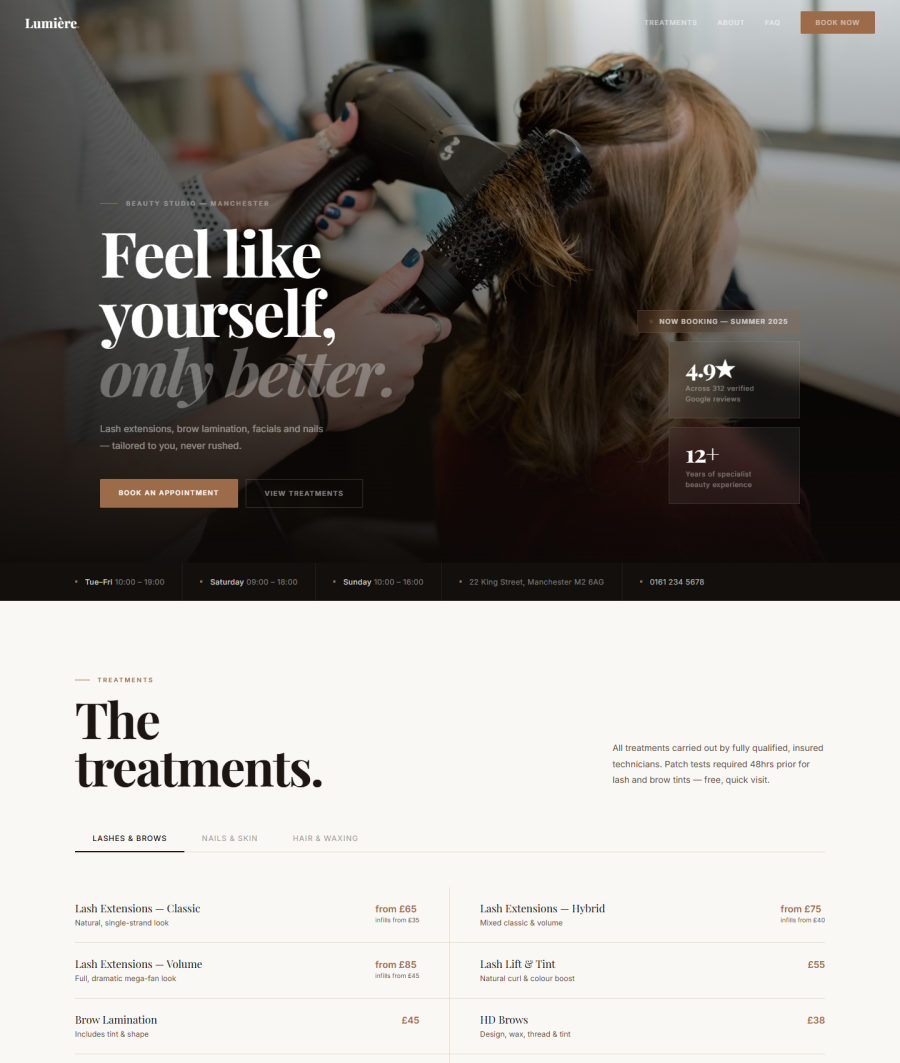
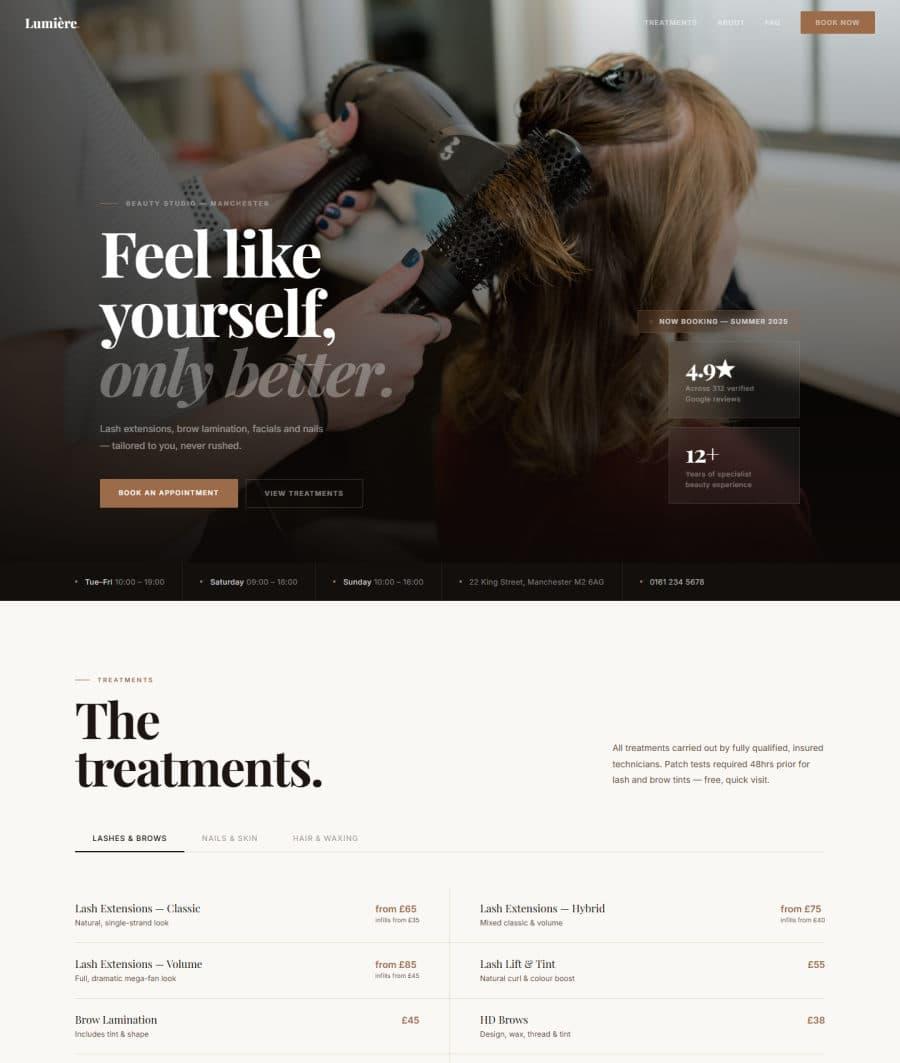
Compress images and add explicit width/height to img tags
Reduces image payload by ~427 KiB (PageSpeed Insights "Improve image
delivery" finding) and prevents layout shift by giving the browser
intrinsic dimensions before load.

diff --git a/axiom/index.html b/axiom/index.html
@@ -490,7 +490,7 @@
       <!-- Far left: logo + service pages -->
       <div style="display:flex;align-items:center;gap:28px;">
         <a href="#" style="display:inline-block; line-height:0;">
-          <img src="AXIOM LOGO ICON.png" alt="Axio" style="height:72px; width:auto; margin-top:-12px;">
+          <img src="AXIOM LOGO ICON.png" alt="Axio" width="600" height="490" style="height:72px; width:auto; margin-top:-12px;">
         </a>
         <a href="digital-marketing.html" class="nav-link">Marketing</a>
         <a href="seo.html" class="nav-link">SEO</a>
@@ -556,7 +556,7 @@
         <path class="hero-corner-path delayed" d="M120 0 L20 0 Q0 0 0 20 L0 60"/>
       </svg>
     </div>
-    <img src="AXIOM LOGO.png" alt="" class="watermark-a" style="width:520px; height:auto; opacity:1; object-fit:contain;">
+    <img src="AXIOM LOGO.png" alt="" class="watermark-a" width="1086" height="1448" style="width:520px; height:auto; opacity:1; object-fit:contain;">
     <div style="max-width:1400px; margin:0 auto; width:100%; position:relative; z-index:1;">
 
       <div style="display:flex; align-items:flex-start; gap:24px; margin-bottom:48px;">
@@ -574,7 +574,7 @@
             Based in Peterborough, Cambridgeshire — serving businesses across Cambridgeshire and the wider UK. We build your website first, fully bespoke, tailored to your brand. You see it, you approve it, and only then do you pay. No risk, no pressure, no templates.
           </p>
           <div class="hero-cta-wrap" style="display:flex; gap:12px; flex-wrap:wrap;">
-            <img src="AXIOM LOGO.png" alt="" class="hero-cta-logo" style="display:none;">
+            <img src="AXIOM LOGO.png" alt="" class="hero-cta-logo" width="1086" height="1448" style="display:none;">
             <a href="#contact" class="btn btn-white">Build Your Dream Website Today</a>
             <a href="#work" class="btn btn-outline-w">View Our Work</a>
           </div>
@@ -676,7 +676,7 @@
         <div>
           <p style="font-size:10px; font-weight:700; letter-spacing:0.22em; text-transform:uppercase; color:rgba(255,255,255,0.35); margin:0 0 16px;">Barbershop</p>
           <a href="https://ejcutz.com" target="_blank" rel="noopener" style="display:block; position:relative; overflow:hidden; border:1px solid rgba(255,255,255,0.08); text-decoration:none; min-height:600px; transition:border-color 0.3s;" onmouseover="this.style.borderColor='rgba(255,255,255,0.25)';this.querySelector('img').style.transform='scale(1.05)'" onmouseout="this.style.borderColor='rgba(255,255,255,0.08)';this.querySelector('img').style.transform='scale(1)'">
-            <img src="ejcuts-preview.png" alt="EJ Cuts" style="position:absolute; inset:0; width:100%; height:100%; object-fit:cover; object-position:center top; display:block; transition:transform 0.6s cubic-bezier(0.25,0.46,0.45,0.94);">
+            <img src="ejcuts-preview.png" alt="EJ Cuts" width="1280" height="900" style="position:absolute; inset:0; width:100%; height:100%; object-fit:cover; object-position:center top; display:block; transition:transform 0.6s cubic-bezier(0.25,0.46,0.45,0.94);">
             <div style="position:absolute; inset:0; background:linear-gradient(to top, rgba(0,0,0,0.92) 0%, rgba(0,0,0,0.4) 50%, rgba(0,0,0,0.1) 100%); pointer-events:none;"></div>
             <div style="position:relative; z-index:2; padding:40px; display:flex; flex-direction:column; justify-content:flex-end; min-height:600px;">
               <div>
@@ -699,7 +699,7 @@
           <p style="font-size:10px; font-weight:700; letter-spacing:0.22em; text-transform:uppercase; color:rgba(255,255,255,0.35); margin:0 0 16px;">Eyebrow Technician</p>
           <a href="https://maison-de-may.vercel.app/" target="_blank" rel="noopener" style="display:block; position:relative; overflow:hidden; border:1px solid rgba(255,255,255,0.08); text-decoration:none; min-height:600px; transition:border-color 0.3s;" onmouseover="this.style.borderColor='rgba(255,255,255,0.25)';this.querySelector('img').style.transform='scale(1.05)'" onmouseout="this.style.borderColor='rgba(255,255,255,0.08)';this.querySelector('img').style.transform='scale(1)'">
             <!-- Full background image -->
-            <img src="maison-preview.jpg" alt="Maison De May Beauty" style="position:absolute; inset:0; width:100%; height:100%; object-fit:cover; object-position:center top; display:block; transition:transform 0.6s cubic-bezier(0.25,0.46,0.45,0.94);">
+            <img src="maison-preview.jpg" alt="Maison De May Beauty" width="1440" height="900" style="position:absolute; inset:0; width:100%; height:100%; object-fit:cover; object-position:center top; display:block; transition:transform 0.6s cubic-bezier(0.25,0.46,0.45,0.94);">
             <!-- Dark gradient so text is readable -->
             <div style="position:absolute; inset:0; background:linear-gradient(to top, rgba(0,0,0,0.92) 0%, rgba(0,0,0,0.4) 50%, rgba(0,0,0,0.1) 100%); pointer-events:none;"></div>
             <!-- Text overlaid at bottom -->
@@ -723,7 +723,7 @@
         <div>
           <p style="font-size:10px; font-weight:700; letter-spacing:0.22em; text-transform:uppercase; color:rgba(255,255,255,0.35); margin:0 0 16px;">Car Dealership</p>
           <a href="https://www.luckymotorspeterboroughltd.co.uk/" target="_blank" rel="noopener" style="display:block; position:relative; overflow:hidden; border:1px solid rgba(255,255,255,0.08); text-decoration:none; min-height:600px; transition:border-color 0.3s;" onmouseover="this.style.borderColor='rgba(255,255,255,0.25)';this.querySelector('img').style.transform='scale(1.05)'" onmouseout="this.style.borderColor='rgba(255,255,255,0.08)';this.querySelector('img').style.transform='scale(1)'">
-            <img src="lucky-motors-preview.jpg" alt="Lucky Motors Peterborough Ltd" style="position:absolute; inset:0; width:100%; height:100%; object-fit:cover; object-position:center top; display:block; transition:transform 0.6s cubic-bezier(0.25,0.46,0.45,0.94);">
+            <img src="lucky-motors-preview.jpg" alt="Lucky Motors Peterborough Ltd" width="1000" height="576" style="position:absolute; inset:0; width:100%; height:100%; object-fit:cover; object-position:center top; display:block; transition:transform 0.6s cubic-bezier(0.25,0.46,0.45,0.94);">
             <div style="position:absolute; inset:0; background:linear-gradient(to top, rgba(0,0,0,0.92) 0%, rgba(0,0,0,0.4) 50%, rgba(0,0,0,0.1) 100%); pointer-events:none;"></div>
             <div style="position:relative; z-index:2; padding:40px; display:flex; flex-direction:column; justify-content:flex-end; min-height:600px;">
               <div>
@@ -759,7 +759,7 @@
         <div>
           <p style="font-size:10px; font-weight:700; letter-spacing:0.22em; text-transform:uppercase; color:rgba(255,255,255,0.35); margin:0 0 16px;">Salon & Beauty</p>
           <a href="https://salon-axiom.vercel.app/" target="_blank" rel="noopener" style="display:block; position:relative; overflow:hidden; border:1px solid rgba(255,255,255,0.08); text-decoration:none; min-height:480px; transition:border-color 0.3s;" onmouseover="this.style.borderColor='rgba(255,255,255,0.25)';this.querySelector('img').style.transform='scale(1.05)'" onmouseout="this.style.borderColor='rgba(255,255,255,0.08)';this.querySelector('img').style.transform='scale(1)'">
-            <img src="example-salon.jpg" alt="Salon website example by Axio Marketing" style="position:absolute; inset:0; width:100%; height:100%; object-fit:cover; object-position:center top; display:block; transition:transform 0.6s cubic-bezier(0.25,0.46,0.45,0.94);">
+            <img src="example-salon.jpg" alt="Salon website example by Axio Marketing" width="900" height="1063" style="position:absolute; inset:0; width:100%; height:100%; object-fit:cover; object-position:center top; display:block; transition:transform 0.6s cubic-bezier(0.25,0.46,0.45,0.94);">
             <div style="position:absolute; inset:0; background:linear-gradient(to top, rgba(0,0,0,0.92) 0%, rgba(0,0,0,0.1) 60%); pointer-events:none;"></div>
             <div style="position:relative; z-index:2; padding:32px; display:flex; flex-direction:column; justify-content:flex-end; min-height:480px;">
               <div style="display:flex; align-items:center; gap:12px; margin-bottom:14px;">
@@ -778,7 +778,7 @@
         <div>
           <p style="font-size:10px; font-weight:700; letter-spacing:0.22em; text-transform:uppercase; color:rgba(255,255,255,0.35); margin:0 0 16px;">Restaurant & Hospitality</p>
           <a href="https://archie834.github.io/restaurant-axiom/" target="_blank" rel="noopener" style="display:block; position:relative; overflow:hidden; border:1px solid rgba(255,255,255,0.08); text-decoration:none; min-height:480px; transition:border-color 0.3s;" onmouseover="this.style.borderColor='rgba(255,255,255,0.25)';this.querySelector('img').style.transform='scale(1.05)'" onmouseout="this.style.borderColor='rgba(255,255,255,0.08)';this.querySelector('img').style.transform='scale(1)'">
-            <img src="example-restaurant.jpg" alt="Restaurant website example by Axio Marketing" style="position:absolute; inset:0; width:100%; height:100%; object-fit:cover; object-position:center top; display:block; transition:transform 0.6s cubic-bezier(0.25,0.46,0.45,0.94);">
+            <img src="example-restaurant.jpg" alt="Restaurant website example by Axio Marketing" width="900" height="1063" style="position:absolute; inset:0; width:100%; height:100%; object-fit:cover; object-position:center top; display:block; transition:transform 0.6s cubic-bezier(0.25,0.46,0.45,0.94);">
             <div style="position:absolute; inset:0; background:linear-gradient(to top, rgba(0,0,0,0.92) 0%, rgba(0,0,0,0.1) 60%); pointer-events:none;"></div>
             <div style="position:relative; z-index:2; padding:32px; display:flex; flex-direction:column; justify-content:flex-end; min-height:480px;">
               <div style="display:flex; align-items:center; gap:12px; margin-bottom:14px;">
@@ -797,7 +797,7 @@
         <div>
           <p style="font-size:10px; font-weight:700; letter-spacing:0.22em; text-transform:uppercase; color:rgba(255,255,255,0.35); margin:0 0 16px;">Trades & Services</p>
           <a href="https://elec-axiom.vercel.app/" target="_blank" rel="noopener" style="display:block; position:relative; overflow:hidden; border:1px solid rgba(255,255,255,0.08); text-decoration:none; min-height:480px; transition:border-color 0.3s;" onmouseover="this.style.borderColor='rgba(255,255,255,0.25)';this.querySelector('img').style.transform='scale(1.05)'" onmouseout="this.style.borderColor='rgba(255,255,255,0.08)';this.querySelector('img').style.transform='scale(1)'">
-            <img src="example-plumber.jpg" alt="Trades website example by Axio Marketing" style="position:absolute; inset:0; width:100%; height:100%; object-fit:cover; object-position:center top; display:block; transition:transform 0.6s cubic-bezier(0.25,0.46,0.45,0.94);">
+            <img src="example-plumber.jpg" alt="Trades website example by Axio Marketing" width="900" height="1063" style="position:absolute; inset:0; width:100%; height:100%; object-fit:cover; object-position:center top; display:block; transition:transform 0.6s cubic-bezier(0.25,0.46,0.45,0.94);">
             <div style="position:absolute; inset:0; background:linear-gradient(to top, rgba(0,0,0,0.92) 0%, rgba(0,0,0,0.1) 60%); pointer-events:none;"></div>
             <div style="position:relative; z-index:2; padding:32px; display:flex; flex-direction:column; justify-content:flex-end; min-height:480px;">
               <div style="display:flex; align-items:center; gap:12px; margin-bottom:14px;">
@@ -829,7 +829,7 @@
       <!-- INTRO -->
       <div class="process-intro" id="process-intro">
         <div class="process-swirl-wrap" id="process-swirl-wrap">
-          <img src="AXIOM LOGO ICON.png" alt="" class="process-swirl" aria-hidden="true">
+          <img src="AXIOM LOGO ICON.png" alt="" class="process-swirl" width="600" height="490" aria-hidden="true">
         </div>
         <button type="button" class="process-cta" id="process-start">See Our Process</button>
         <p class="process-hint">3 steps · takes 10 seconds</p>
@@ -906,7 +906,7 @@
   <section id="contact" style="background:#000; color:#fff; padding:0;">
 
     <div class="contact-top-pad" style="padding:32px 80px 20px; border-bottom:1px solid rgba(255,255,255,0.06); position:relative; overflow:hidden;">
-      <img class="contact-logo-bg" src="AXIOM LOGO ICON.png" alt="" style="position:absolute; right:-40px; top:50%; transform:translateY(-50%); width:300px; height:auto; opacity:1; pointer-events:none; user-select:none;">
+      <img class="contact-logo-bg" src="AXIOM LOGO ICON.png" alt="" width="600" height="490" style="position:absolute; right:-40px; top:50%; transform:translateY(-50%); width:300px; height:auto; opacity:1; pointer-events:none; user-select:none;">
       <div class="contact-top-inner">
         <h2 style="font-size:clamp(32px,4.5vw,60px); font-weight:900; letter-spacing:-0.05em; line-height:0.95; margin:0; flex-shrink:0;">READY<br>TO BE<br>FOUND?</h2>
         <div class="contact-text">
@@ -948,7 +948,7 @@
   <!-- FOOTER -->
   <footer style="background:#000; border-top:1px solid rgba(255,255,255,0.07); padding:28px 40px;">
     <div class="footer-inner">
-      <a href="#" style="display:inline-block; line-height:0;"><img src="AXIOM LOGO.png" alt="Axio" style="height:44px;"></a>
+      <a href="#" style="display:inline-block; line-height:0;"><img src="AXIOM LOGO.png" alt="Axio" width="1086" height="1448" style="height:44px;"></a>
       <p style="font-size:10px; font-weight:700; letter-spacing:0.18em; text-transform:uppercase; color:rgba(255,255,255,0.2); margin:0;">© 2026 Axio Marketing</p>
       <div class="footer-nav" style="display:flex; gap:32px;">
         <a href="#how" class="nav-link">Process</a>
